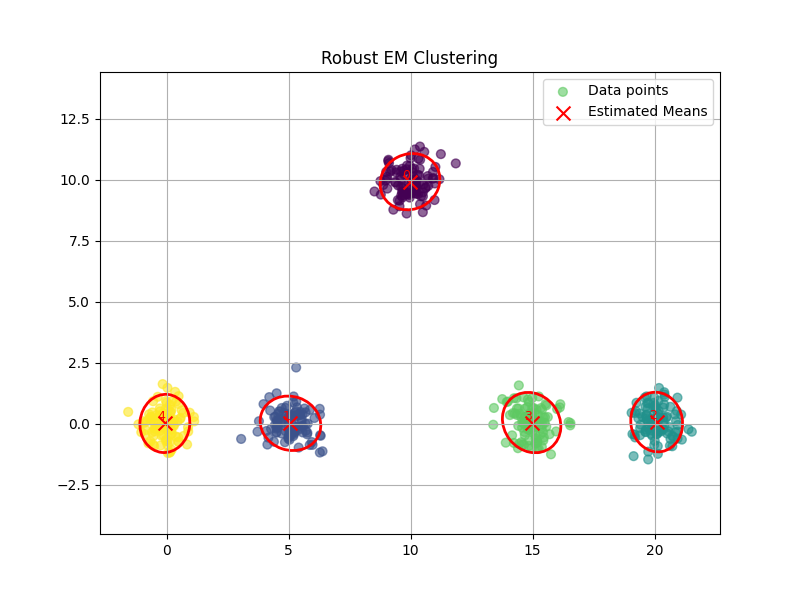
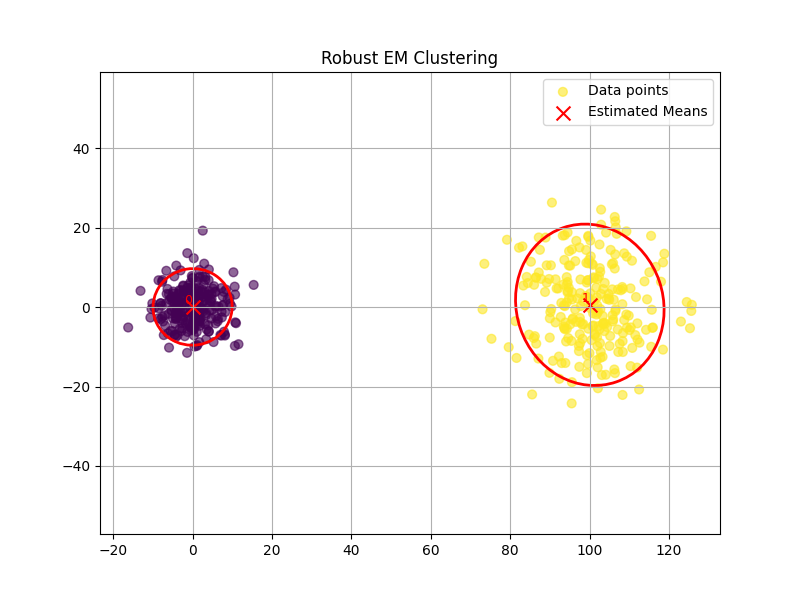
commit

diff --git a/main.py b/main.py
@@ -132,7 +132,7 @@ def robustEM(X, eps = 1e-4, maxIter = 100) :
         alpha1_old = np.max(alpha_old)
 
         beta = (1/c) * (np.sum(np.exp(-eta * n * abs(alpha_new - alpha_old))))
-        beta = min(beta , (1 - alpha1_EM) / (-alpha1_old * E))
+        beta = min(beta , (1 - alpha1_EM) / (-alpha1_old * E + 1e-6))
 
         # Step 7 : Discard appropriate centers
 
@@ -155,7 +155,14 @@ def robustEM(X, eps = 1e-4, maxIter = 100) :
         z = z_new / np.sum(z_new, axis = 0, keepdims= True)
         alpha = alpha_new / np.sum(alpha_new, axis = 0, keepdims= True)
         mu = np.array(mu_new)
+
+        if (iteration > 60 and (c == c_new)) : 
+            beta = 0
+
+
         c = c_new
+
+        
 
         # Step 8 : Perform the routine updates
 

diff --git a/synthetic.py b/synthetic.py
@@ -11,13 +11,13 @@ from sklearn.decomposition import PCA
 
 n_samples = 500
 n_features = 2
-true_clusters = [(0,0),(5,0),(10,10),(15,0),(20,0)]
-X, y_true = make_blobs(n_samples=n_samples, centers=true_clusters, cluster_std=0.60, random_state=42)
+true_clusters = [(0,0),(100,0)]
+X, y_true = make_blobs(n_samples=n_samples, centers=true_clusters, cluster_std=[5,10], random_state=42)
 
 
 # Run robust EM
 
-alpha, mu, sigma, z = robustEM(X)
+alpha, mu, sigma, z = robustEM(X, maxIter=1000)
 
 
 # Predict cluster assignment
